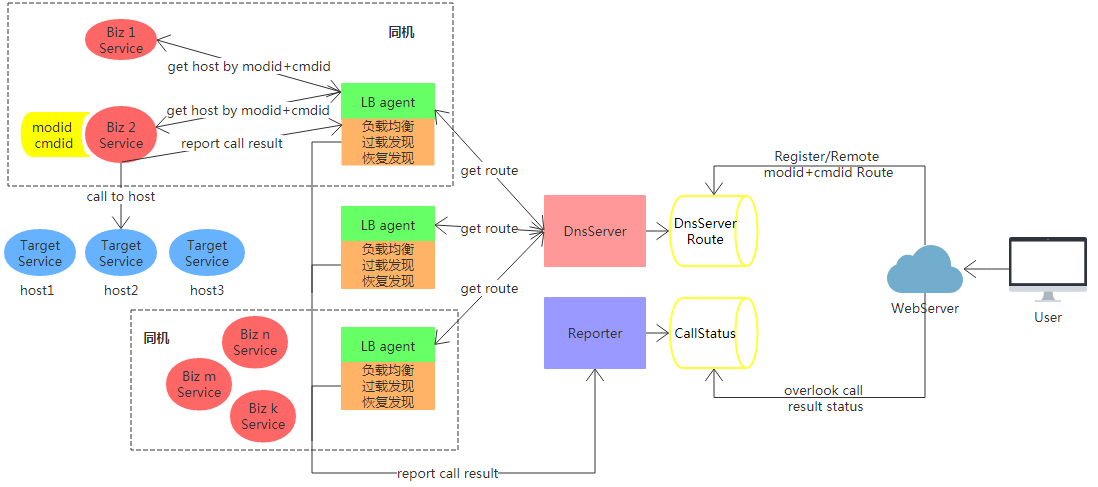
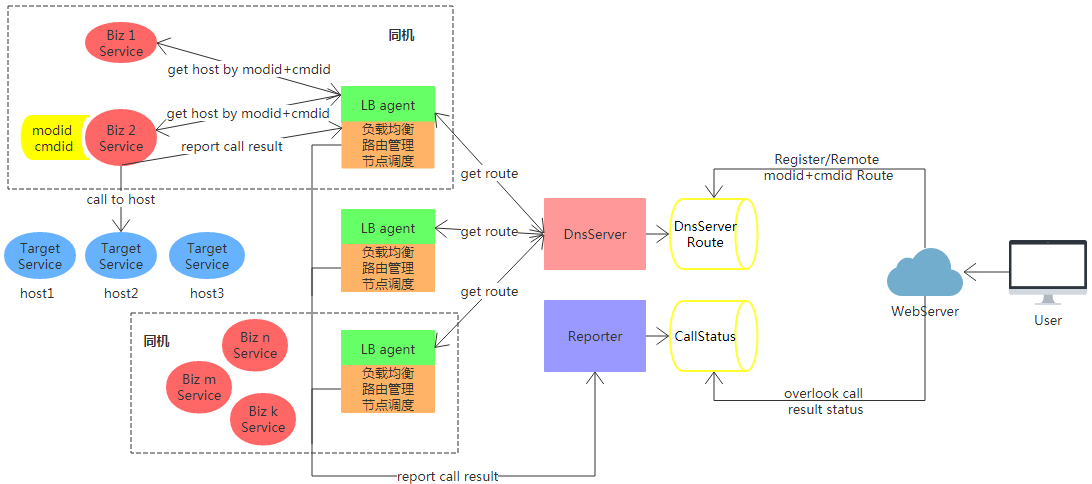
ELB完成README总体介绍

Changed region(s): [[0.0, 0.0, 0.9963, 1.0], [0.6538, 0.7748, 0.8407, 0.8678], [0.1245, 0.6818, 0.1557, 0.7128]]

diff --git a/README.md b/README.md
@@ -1,8 +1,36 @@
 # Easy Load Balancer
 
+### 介绍
+
+对于一个部门的后台，为增强灵活性，一个服务可以被抽象为命令字：`modid+cmdid`的组合，称为**一个模块**
+- `modid`：标识业务的大类，如：“直播列表相关”
+- `cmdid`：标识具体服务内容，如：“批量获取直播列表”
+一个modid+cmdid下往往有多个节点，这些节点就是该服务的所有服务进程的网络地址
+
+业务代码利用modid,cmdid，就可以调用对应的远程服务
+
+一个ELB系统包含一个dnsserver，一个reporter，以及部署于每个服务器的Lbagent，业务代码通过API与ELB系统进行交互
+
+**API** ：根据自身需要的`modid,cmdid`，向ELB系统获取节点、汇报节点调用结果；提供`C++`、`Java`、`Python`接口；
+**LB agent**：运行于每个服务器上，负责为此服务器上的业务提供节点获取、节点状态汇报、路由管理、负载调度等核心功能
+**dnsserver** ： 运行于一台服务器上（也可以用LVS部署多实例防单点），负责`modid,cmdid`到节点路由的转换；
+**reporter** ： 运行于dnsserver同机服务器上，负责收集各`modid,cmdid`下各节点调用状况，可用于观察、报警
+
+`modid,cmdid`数据由`Mysql`管理，具体SQL脚本在`common/sql`路径下
+至于`modid,cmdid`的注册、删除可以利用Web端操作MySQL（但由于个人能力有限，Web没有写）
+
+
 ### 总体架构
 
 ![arch](pictures/arch.png)
+如图，每个服务器（虚线）部署了一台LB Agent，以及多个业务服务
+
+1. 开发者在Web端注册、删除、修改`modid,cmdid`的路由信息，信息被写入到MySQL数据库；
+2. 服务器上每个业务biz都把持着自己需要通信的远程服务标识`modid+cmdid`，每个biz都向本机LB Agent获取远程节点，进而可以和远程目标服务通信，此外biz会汇报本次的节点调用结果给LB Agent；
+3. LB Agent负责路由管理、负载均衡等核心任务，并周期性向dnsserver获取最新的路由信息，周期性把各`modid,cmdid`的各节点一段时间内的调用结果传给reporter
+4. dnsserver监控MySQL，周期性将最新路由信息加载出来；
+5. reporter将各`modid,cmdid`的各节点一段时间内的调用结果写回到MySQL，方便Web端查看、报警
+
 
 ### 各模块架构原理介绍
 **DNS Server: [dnsserver readme][1]**
